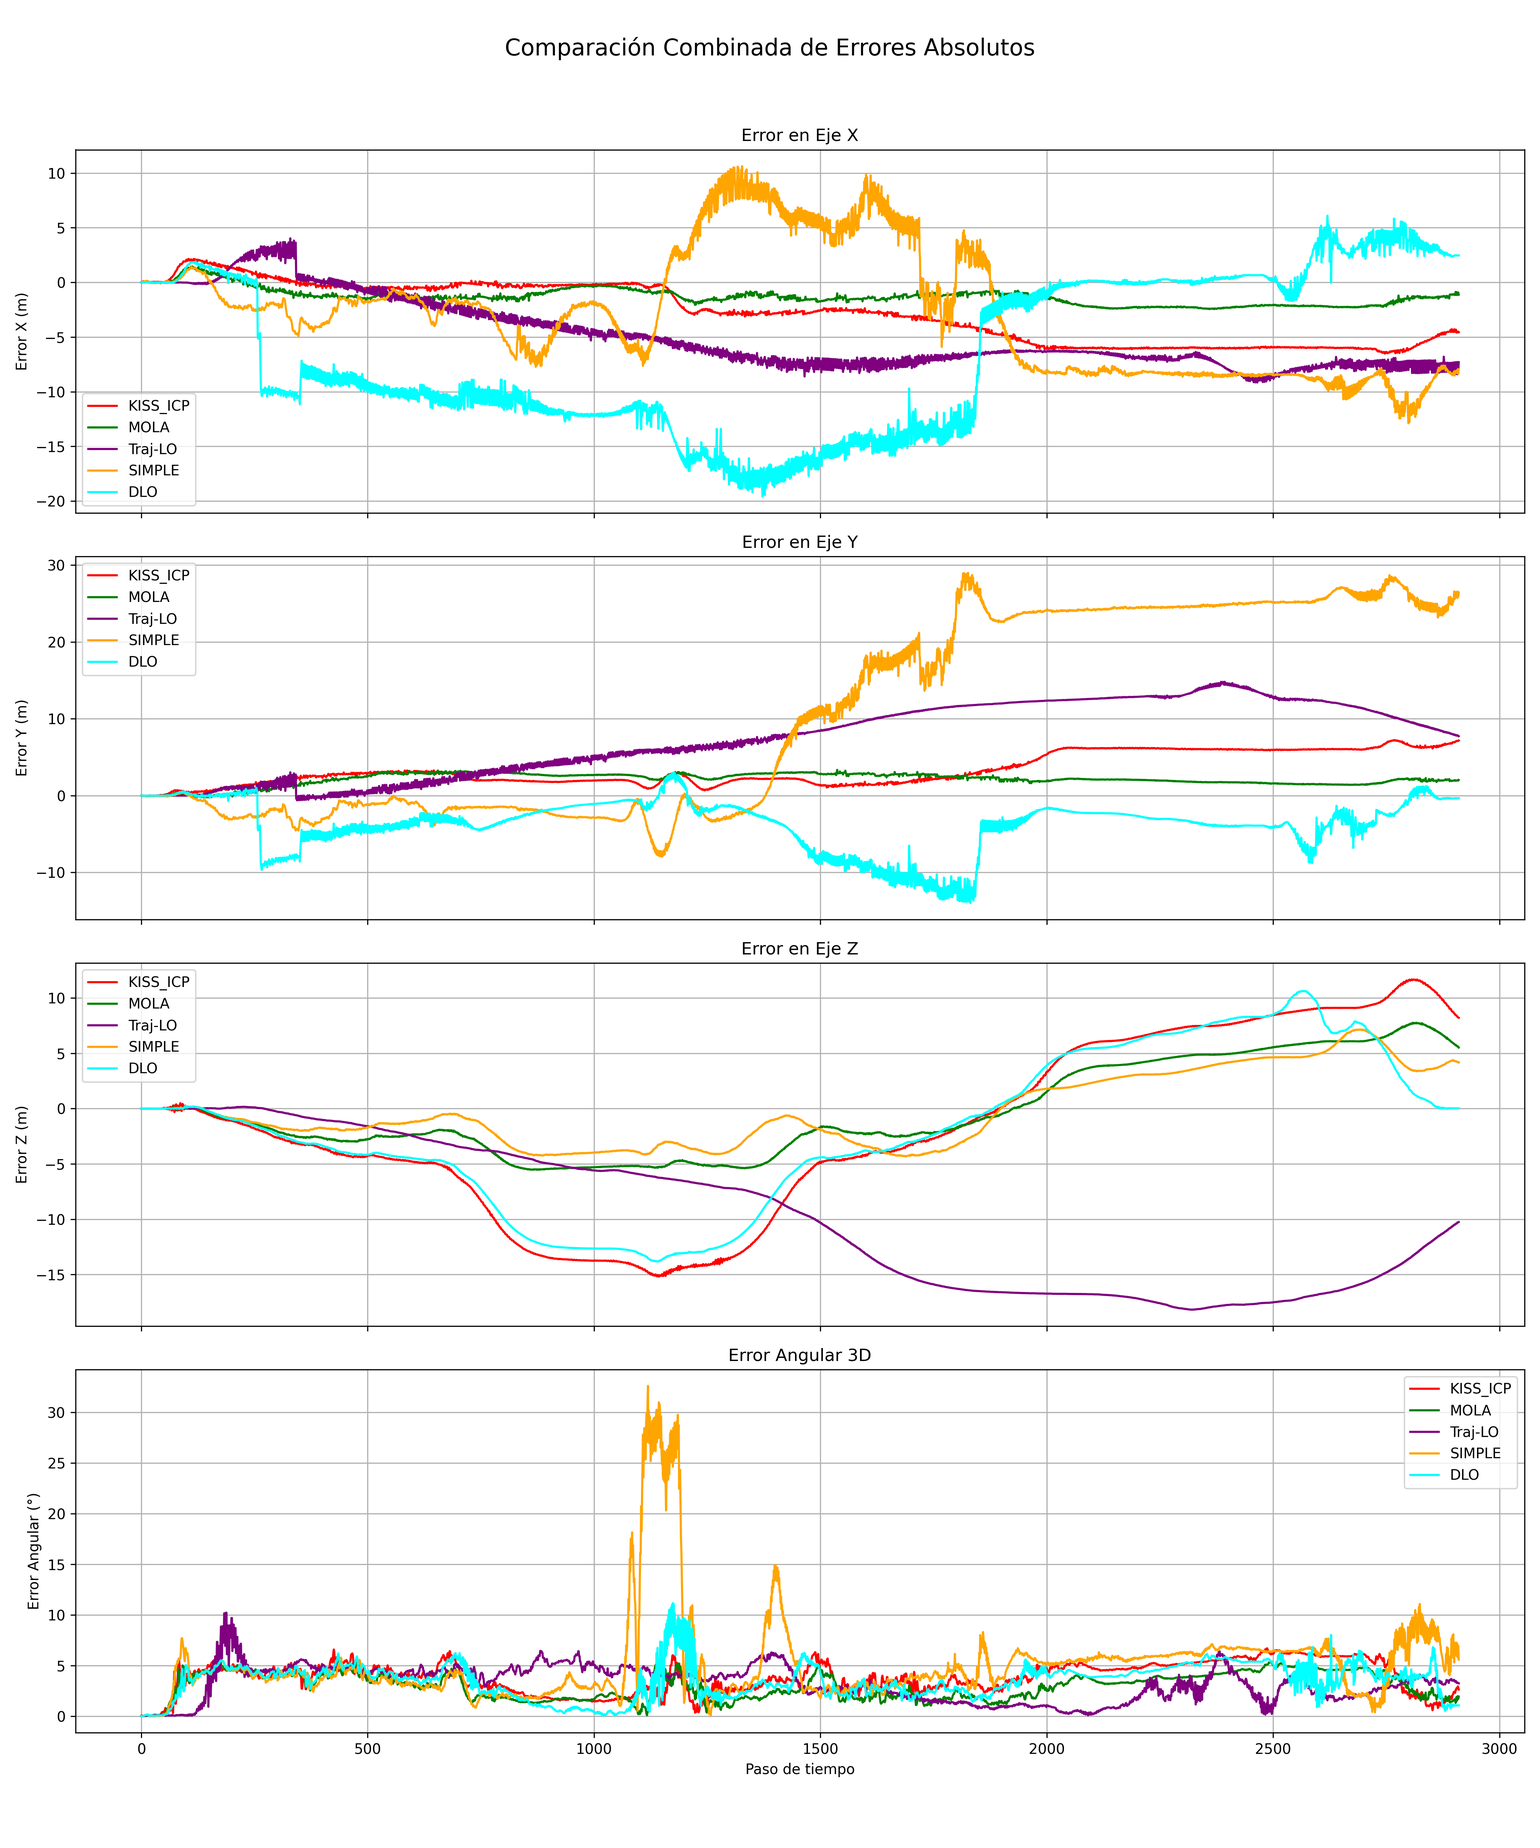
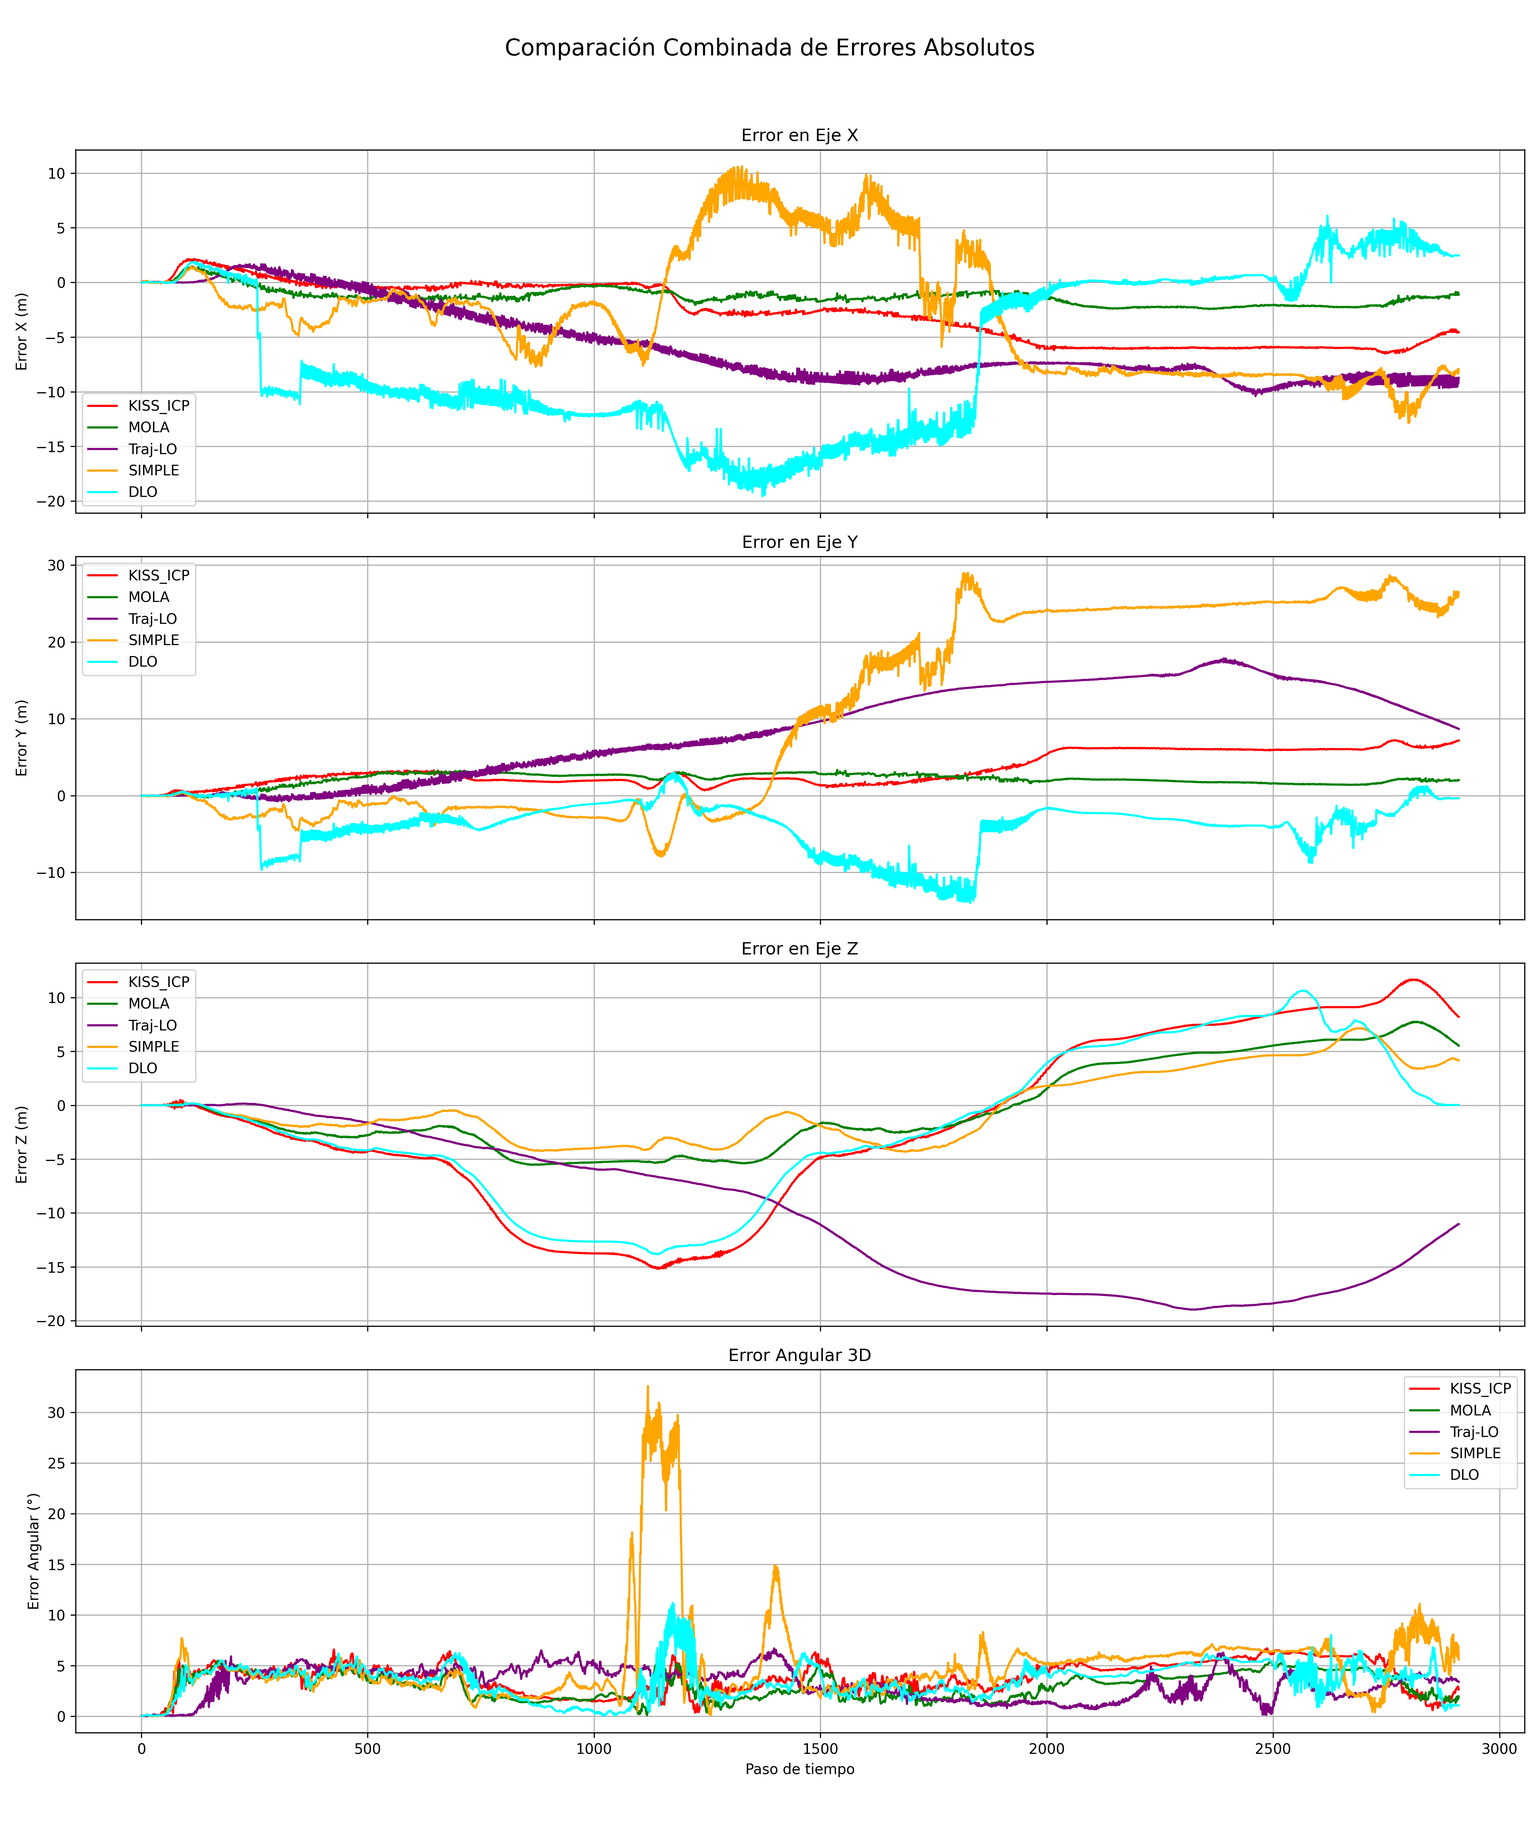
angular error ploting fixed

diff --git a/src/lidar_odom_subscriber/src/odom_gps_comparator_matrix.cpp b/src/lidar_odom_subscriber/src/odom_gps_comparator_matrix.cpp
@@ -58,7 +58,7 @@ public:
         }
 
         // Calcular y mostrar métricas finales
-        calculate_final_metrics();
+        //calculate_final_metrics();
         save_trajectories();
         plot_trajectories();
     }
@@ -141,7 +141,7 @@ private:
         aligned_estimated_pose.position.y = initial_gps_.y + dy_rot;
         aligned_estimated_pose.position.z = initial_gps_.z + dz;
 
-        // --- CORRECCIÓN DE LA ORIENTACIÓN ---
+
         tf2::Quaternion estimator_q;
         tf2::fromMsg(pose.orientation, estimator_q);
         tf2::Quaternion gps_initial_rotation_q;
@@ -166,17 +166,17 @@ private:
         double ape = calculate_ape(est_pose_data.transform, gt_pose_data.transform);
         double rpe = 0.0;
         
-        if (estimated_poses_.size() > 1)
-        {
-            rpe = calculate_rpe(
-                estimated_poses_[estimated_poses_.size()-2].transform,
-                estimated_poses_.back().transform,
-                ground_truth_poses_[ground_truth_poses_.size()-2].transform,
-                ground_truth_poses_.back().transform
-            );
-        }
+        // if (estimated_poses_.size() > 1)
+        // {
+        //     rpe = calculate_rpe(
+        //         estimated_poses_[estimated_poses_.size()-2].transform,
+        //         estimated_poses_.back().transform,
+        //         ground_truth_poses_[ground_truth_poses_.size()-2].transform,
+        //         ground_truth_poses_.back().transform
+        //     );
+        // }
 
-        double ate = calculate_ate();
+        //double ate = calculate_ate();
 
         // RCLCPP_INFO(this->get_logger(), "APE: %.3f m | RPE: %.3f m | ATE: %.3f m | Est(x,y): (%.2f, %.2f) | GT(x,y): (%.2f, %.2f)",
         //             ape, rpe, ate, estimated_pose.pose.pose.position.x, estimated_pose.pose.pose.position.y, 
@@ -284,9 +284,9 @@ private:
         Eigen::Vector3d pos_diff = pos_gt - pos_est;
         
         // Obtener el error absoluto para cada componente de posición
-        double error_x = std::abs(pos_diff.x());
-        double error_y = std::abs(pos_diff.y());
-        double error_z = std::abs(pos_diff.z());
+        double error_x = pos_diff.x();
+        double error_y = pos_diff.y();
+        double error_z = pos_diff.z();
 
         // --- Error de Orientación ---
         Eigen::Matrix3d R_est = T_est.block<3,3>(0, 0);
@@ -302,9 +302,24 @@ private:
         double cos_theta = std::max(-1.0, std::min(1.0, (trace - 1.0) / 2.0));
         double orientation_error_rad = std::acos(cos_theta);
 
+        
+        // --- CÁLCULO DE ERROR DE YAW (MODIFICADO) ---
+        // Extraer el yaw de cada matriz de rotación
+        // atan2(R(1,0), R(0,0)) da el yaw
+        double yaw_est = atan2(R_est(1, 0), R_est(0, 0));
+        double yaw_gt = atan2(R_gt(1, 0), R_gt(0, 0));
+
+        // Calcular la diferencia, asegurándose de manejar el salto de -PI a PI
+        double yaw_error_rad = yaw_gt - yaw_est;
+        if (yaw_error_rad > M_PI) {
+            yaw_error_rad -= 2 * M_PI;
+        } else if (yaw_error_rad < -M_PI) {
+            yaw_error_rad += 2 * M_PI;
+        }
+
         // Loguear los errores desglosados por componente
         RCLCPP_INFO(this->get_logger(), "APE components -> Pos(X,Y,Z): (%.3f, %.3f, %.3f) m | Ori: %.3f deg",
-                    error_x, error_y, error_z, orientation_error_rad * 180.0 / M_PI);
+                    error_x, error_y, error_z, yaw_error_rad * 180.0 / M_PI);
 
         // Devolver el error de posición total (norma euclidiana), que es el valor principal para el log global
         return pos_diff.norm();
@@ -397,69 +412,65 @@ private:
         RCLCPP_INFO(this->get_logger(), "======================================");
     }
 
-void save_trajectories()
-{
-    RCLCPP_INFO(this->get_logger(), "Guardando trayectorias en /home/david/ros2_ws/ ...");
-    std::ofstream est_file("/home/david/ros2_ws/odom_est_traj.csv");
-    std::ofstream gt_file("/home/david/ros2_ws/odom_gt_traj.csv");
-
-    if (got_initial_gps_)
+    void save_trajectories()
     {
-        for (size_t i = 0; i < est_traj_.size(); ++i)
+        RCLCPP_INFO(this->get_logger(), "Guardando trayectorias en /home/david/ros2_ws/ ...");
+        std::ofstream est_file("/home/david/ros2_ws/odom_est_traj.csv");
+        std::ofstream gt_file("/home/david/ros2_ws/odom_gt_traj.csv");
+
+        // Escribir cabeceras en los ficheros CSV
+        est_file << "x,y,z,qx,qy,qz,qw\n";
+        gt_file << "x,y,z,qx,qy,qz,qw\n";
+
+        // No es necesario restar initial_gps_ aquí si el ploteo lo maneja
+        // o si las poses ya están en un marco común.
+        // Para la evaluación, es mejor guardar las poses globales alineadas.
+
+        size_t n = std::min(estimated_poses_.size(), ground_truth_poses_.size());
+
+        for (size_t i = 0; i < n; ++i)
         {
-            const auto& est_pose = estimated_poses_[i].transform;
-            const auto& est_position = est_pose.block<3, 1>(0, 3);
-            const auto& est_orientation = tf2::Quaternion(
-                est_pose(0, 0), est_pose(0, 1), est_pose(0, 2), est_pose(3, 3)
+            // --- Pose Estimada ---
+            const auto& est_transform = estimated_poses_[i].transform;
+            const auto& est_position = est_transform.block<3, 1>(0, 3);
+            
+            // CORRECCIÓN: Convertir la matriz de rotación a cuaternión
+            tf2::Matrix3x3 est_rot_matrix(
+                est_transform(0, 0), est_transform(0, 1), est_transform(0, 2),
+                est_transform(1, 0), est_transform(1, 1), est_transform(1, 2),
+                est_transform(2, 0), est_transform(2, 1), est_transform(2, 2)
             );
+            tf2::Quaternion est_orientation;
+            est_rot_matrix.getRotation(est_orientation);
+            est_orientation.normalize();
 
-            est_file << est_position.x() - initial_gps_.x << "," << est_position.y() - initial_gps_.y << "," << est_position.z() - initial_gps_.z << ","
-                     << est_orientation.x() << "," << est_orientation.y() << "," << est_orientation.z() << "," << est_orientation.w() << std::endl;
+            est_file << std::fixed << std::setprecision(6)
+                    << est_position.x() << "," << est_position.y() << "," << est_position.z() << ","
+                    << est_orientation.x() << "," << est_orientation.y() << "," << est_orientation.z() << "," << est_orientation.w() << std::endl;
 
-            if (i < gt_traj_.size())
-            {
-                const auto& gt_pose = ground_truth_poses_[i].transform;
-                const auto& gt_position = gt_pose.block<3, 1>(0, 3);
-                const auto& gt_orientation = tf2::Quaternion(
-                    gt_pose(0, 0), gt_pose(0, 1), gt_pose(0, 2), gt_pose(3, 3)
-                );
+            // --- Pose Ground Truth ---
+            const auto& gt_transform = ground_truth_poses_[i].transform;
+            const auto& gt_position = gt_transform.block<3, 1>(0, 3);
 
-                gt_file << gt_position.x() - initial_gps_.x << "," << gt_position.y() - initial_gps_.y << "," << gt_position.z() - initial_gps_.z << ","
-                         << gt_orientation.x() << "," << gt_orientation.y() << "," << gt_orientation.z() << "," << gt_orientation.w() << std::endl;
-            }
-        }
-    }
-    else
-    {
-        for (size_t i = 0; i < est_traj_.size(); ++i)
-        {
-            const auto& est_pose = estimated_poses_[i].transform;
-            const auto& est_position = est_pose.block<3, 1>(0, 3);
-            const auto& est_orientation = tf2::Quaternion(
-                est_pose(0, 0), est_pose(0, 1), est_pose(0, 2), est_pose(3, 3)
+            // CORRECCIÓN: Convertir la matriz de rotación a cuaternión
+            tf2::Matrix3x3 gt_rot_matrix(
+                gt_transform(0, 0), gt_transform(0, 1), gt_transform(0, 2),
+                gt_transform(1, 0), gt_transform(1, 1), gt_transform(1, 2),
+                gt_transform(2, 0), gt_transform(2, 1), gt_transform(2, 2)
             );
+            tf2::Quaternion gt_orientation;
+            gt_rot_matrix.getRotation(gt_orientation);
+            gt_orientation.normalize();
 
-            est_file << est_position.x() << "," << est_position.y() << "," << est_position.z() << ","
-                     << est_orientation.x() << "," << est_orientation.y() << "," << est_orientation.z() << "," << est_orientation.w() << std::endl;
-
-            if (i < gt_traj_.size())
-            {
-                const auto& gt_pose = ground_truth_poses_[i].transform;
-                const auto& gt_position = gt_pose.block<3, 1>(0, 3);
-                const auto& gt_orientation = tf2::Quaternion(
-                    gt_pose(0, 0), gt_pose(0, 1), gt_pose(0, 2), gt_pose(3, 3)
-                );
-
-                gt_file << gt_position.x() << "," << gt_position.y() << "," << gt_position.z() << ","
-                         << gt_orientation.x() << "," << gt_orientation.y() << "," << gt_orientation.z() << "," << gt_orientation.w() << std::endl;
-            }
+            gt_file << std::fixed << std::setprecision(6)
+                    << gt_position.x() << "," << gt_position.y() << "," << gt_position.z() << ","
+                    << gt_orientation.x() << "," << gt_orientation.y() << "," << gt_orientation.z() << "," << gt_orientation.w() << std::endl;
         }
-    }
 
-    est_file.close();
-    gt_file.close();
-    RCLCPP_INFO(this->get_logger(), "Trayectorias guardadas.");
-}
+        est_file.close();
+        gt_file.close();
+        RCLCPP_INFO(this->get_logger(), "Trayectorias guardadas.");
+    }
 
     void plot_trajectories()
     {

diff --git a/plot_trajectories.py b/plot_trajectories.py
@@ -162,25 +162,62 @@ def plot_trajectories():
     fig_comp, ax1 = plt.subplots(1, 1, figsize=(10, 10))
     ax1.plot(gt_df['x'], gt_df['y'], label='Trayectoria Real (GPS)', color='blue', linewidth=2)
     ax1.plot(est_df['x'], est_df['y'], label='Trayectoria Estimada (LIDAR)', color='red', linestyle='--', linewidth=2)
+
+    # --- DIBUJAR LÍNEAS DE ERROR, PUNTOS DE POSE Y VECTORES DE ORIENTACIÓN ---
+    error_line_step = 20  # Aumentamos el paso para no saturar la gráfica
+    vector_length = 0.5   # Longitud de la flecha de orientación en metros
+
+    for i in range(0, min_len, error_line_step):
+        # --- Línea de error y puntos de pose ---
+        ax1.plot([gt_df['x'].iloc[i], est_df['x'].iloc[i]], 
+                 [gt_df['y'].iloc[i], est_df['y'].iloc[i]], 
+                 color='gray', linestyle=':', linewidth=0.8, 
+                 label='Error de posición' if i == 0 else "")
+
+        ax1.plot(gt_df['x'].iloc[i], gt_df['y'].iloc[i], marker='o', color='blue', markersize=4, label='Pose GPS' if i == 0 else "")
+        ax1.plot(est_df['x'].iloc[i], est_df['y'].iloc[i], marker='x', color='red', markersize=5, label='Pose Estimada' if i == 0 else "")
+
+        # --- Vectores de Orientación ---
+        # Orientación Real (GPS)
+        q_gt = gt_df.iloc[i][['qx', 'qy', 'qz', 'qw']].values
+        R_gt = Rotation.from_quat(q_gt).as_matrix()
+        # El vector de dirección (adelante) es la primera columna de la matriz de rotación
+        dir_gt = R_gt[:2, 0] 
+        ax1.arrow(gt_df['x'].iloc[i], gt_df['y'].iloc[i], 
+                  dir_gt[0] * vector_length, dir_gt[1] * vector_length,
+                  head_width=1.1, head_length=2.2, fc='cyan', ec='blue',
+                  label='Orientación Real' if i == 0 else "")
+
+        # Orientación Estimada (LIDAR)
+        q_est = est_df.iloc[i][['qx', 'qy', 'qz', 'qw']].values
+        R_est = Rotation.from_quat(q_est).as_matrix()
+        dir_est = R_est[:2, 0]
+        ax1.arrow(est_df['x'].iloc[i], est_df['y'].iloc[i], 
+                  dir_est[0] * vector_length, dir_est[1] * vector_length,
+                  head_width=1.1, head_length=2.2, fc='magenta', ec='red',
+                  label='Orientación Estimada' if i == 0 else "")
+
+
     ax1.set_title('Comparación de Trayectorias 2D (Plano XY)')
     ax1.set_xlabel('Coordenada X (m)')
     ax1.set_ylabel('Coordenada Y (m)')
     ax1.legend()
     ax1.grid(True)
     ax1.set_aspect('equal', adjustable='box')
+    plt.show()
     plt.savefig(output_path, dpi=300)
     print(f"Gráfica de comparación 2D guardada en: {output_path}")
 
-    # --- GRÁFICO 3: Visualización de trayectorias en 3D ---
-    fig_3d = plt.figure(figsize=(10, 8))
-    ax_3d = fig_3d.add_subplot(111, projection='3d')
-    ax_3d.plot(gt_df['x'], gt_df['y'], gt_df['z'], label='Trayectoria Real (GPS)', color='blue', linewidth=2)
-    ax_3d.plot(est_df['x'], est_df['y'], est_df['z'], label='Trayectoria Estimada (LIDAR)', color='red', linestyle='--', linewidth=2)
-    ax_3d.set_title('Comparación de Trayectorias 3D')
-    ax_3d.set_xlabel('X (m)'), ax_3d.set_ylabel('Y (m)'), ax_3d.set_zlabel('Z (m)')
-    ax_3d.legend(), ax_3d.grid(True)
-    plt.savefig(trajectory_3d_path, dpi=300)
-    print(f"Visualización 3D guardada en: {trajectory_3d_path}")
+    # # --- GRÁFICO 3: Visualización de trayectorias en 3D ---
+    # fig_3d = plt.figure(figsize=(10, 8))
+    # ax_3d = fig_3d.add_subplot(111, projection='3d')
+    # ax_3d.plot(gt_df['x'], gt_df['y'], gt_df['z'], label='Trayectoria Real (GPS)', color='blue', linewidth=2)
+    # ax_3d.plot(est_df['x'], est_df['y'], est_df['z'], label='Trayectoria Estimada (LIDAR)', color='red', linestyle='--', linewidth=2)
+    # ax_3d.set_title('Comparación de Trayectorias 3D')
+    # ax_3d.set_xlabel('X (m)'), ax_3d.set_ylabel('Y (m)'), ax_3d.set_zlabel('Z (m)')
+    # ax_3d.legend(), ax_3d.grid(True)
+    # plt.savefig(trajectory_3d_path, dpi=300)
+    # print(f"Visualización 3D guardada en: {trajectory_3d_path}")
 
 if __name__ == '__main__':
     plot_trajectories()

diff --git a/src/kiss-icp/ros/src/OdometryServer.cpp b/src/kiss-icp/ros/src/OdometryServer.cpp
@@ -25,6 +25,7 @@
 #include <sophus/se3.hpp>
 #include <utility>
 #include <vector>
+#include <fstream>
 
 // KISS-ICP-ROS
 #include "OdometryServer.hpp"
@@ -101,12 +102,31 @@ OdometryServer::OdometryServer(const rclcpp::NodeOptions &options)
     tf2_buffer_->setUsingDedicatedThread(true);
     tf2_listener_ = std::make_unique<tf2_ros::TransformListener>(*tf2_buffer_);
 
+    if (!timing_log_path_.empty()) {
+        timing_file_.open(timing_log_path_);
+        if (!timing_file_.is_open()) {
+            RCLCPP_ERROR(this->get_logger(), "Failed to open timing file: %s",
+                         timing_log_path_.c_str());
+        } else {
+            RCLCPP_INFO(this->get_logger(), "Logging KISS-ICP processing times to %s",
+                        timing_log_path_.c_str());
+            timing_file_ << "processing_time_ms\n";
+        }
+    }
+
     RCLCPP_INFO(this->get_logger(), "KISS-ICP ROS 2 odometry node initialized");
+}
+
+OdometryServer::~OdometryServer() {
+    if (timing_file_.is_open()) {
+        timing_file_.close();
+    }
 }
 
 void OdometryServer::initializeParameters(kiss_icp::pipeline::KISSConfig &config) {
     RCLCPP_INFO(this->get_logger(), "Initializing parameters");
 
+    timing_log_path_ = declare_parameter<std::string>("timing_log_path_", "home/david/ros2_ws/kiss_icp_timing_log.txt");
     base_frame_ = declare_parameter<std::string>("base_frame", base_frame_);
     RCLCPP_INFO(this->get_logger(), "\tBase frame: %s", base_frame_.c_str());
     lidar_odom_frame_ = declare_parameter<std::string>("lidar_odom_frame", lidar_odom_frame_);
@@ -153,6 +173,7 @@ void OdometryServer::initializeParameters(kiss_icp::pipeline::KISSConfig &config
                     "[WARNING] max_range is smaller than min_range, settng min_range to 0.0");
         config.min_range = 0.0;
     }
+
 }
 
 void OdometryServer::RegisterFrame(const sensor_msgs::msg::PointCloud2::ConstSharedPtr &msg) {
@@ -200,6 +221,12 @@ void OdometryServer::RegisterFrame(const sensor_msgs::msg::PointCloud2::ConstSha
         end_processing - start_processing).count();
     const auto total_ms = std::chrono::duration_cast<std::chrono::duration<double, std::milli>>(
         end_total - start_total).count();
+
+
+    // Write processing time to file if open
+    if (timing_file_.is_open()) {
+        timing_file_ << processing_ms << "\n";
+    }
     
     if (processing_ms > 1e-3) {
         valid_frame_count++;

diff --git a/src/kiss-icp/ros/src/OdometryServer.hpp b/src/kiss-icp/ros/src/OdometryServer.hpp
@@ -42,6 +42,10 @@ class OdometryServer : public rclcpp::Node {
 public:
     /// OdometryServer constructor
     OdometryServer() = delete;
+
+    /// Destructor
+    ~OdometryServer(); 
+
     explicit OdometryServer(const rclcpp::NodeOptions &options);
 
 private:
@@ -84,6 +88,8 @@ private:
     /// Global/map coordinate frame.
     std::string lidar_odom_frame_{"odom_lidar"};
     std::string base_frame_{};
+    std::ofstream timing_file_;
+    std::string timing_log_path_{};
 
     /// Covariance diagonal
     double position_covariance_;

diff --git a/src/lidar_odom_subscriber/launch/odom_comparator.launch.py b/src/lidar_odom_subscriber/launch/odom_comparator.launch.py
@@ -60,6 +60,6 @@ def generate_launch_description():
     return LaunchDescription([
 
         # mola_launch,
-        odom_comparator_node_kiss,
+        odom_comparator_node,
         static_tf_base_to_lidar
     ])
